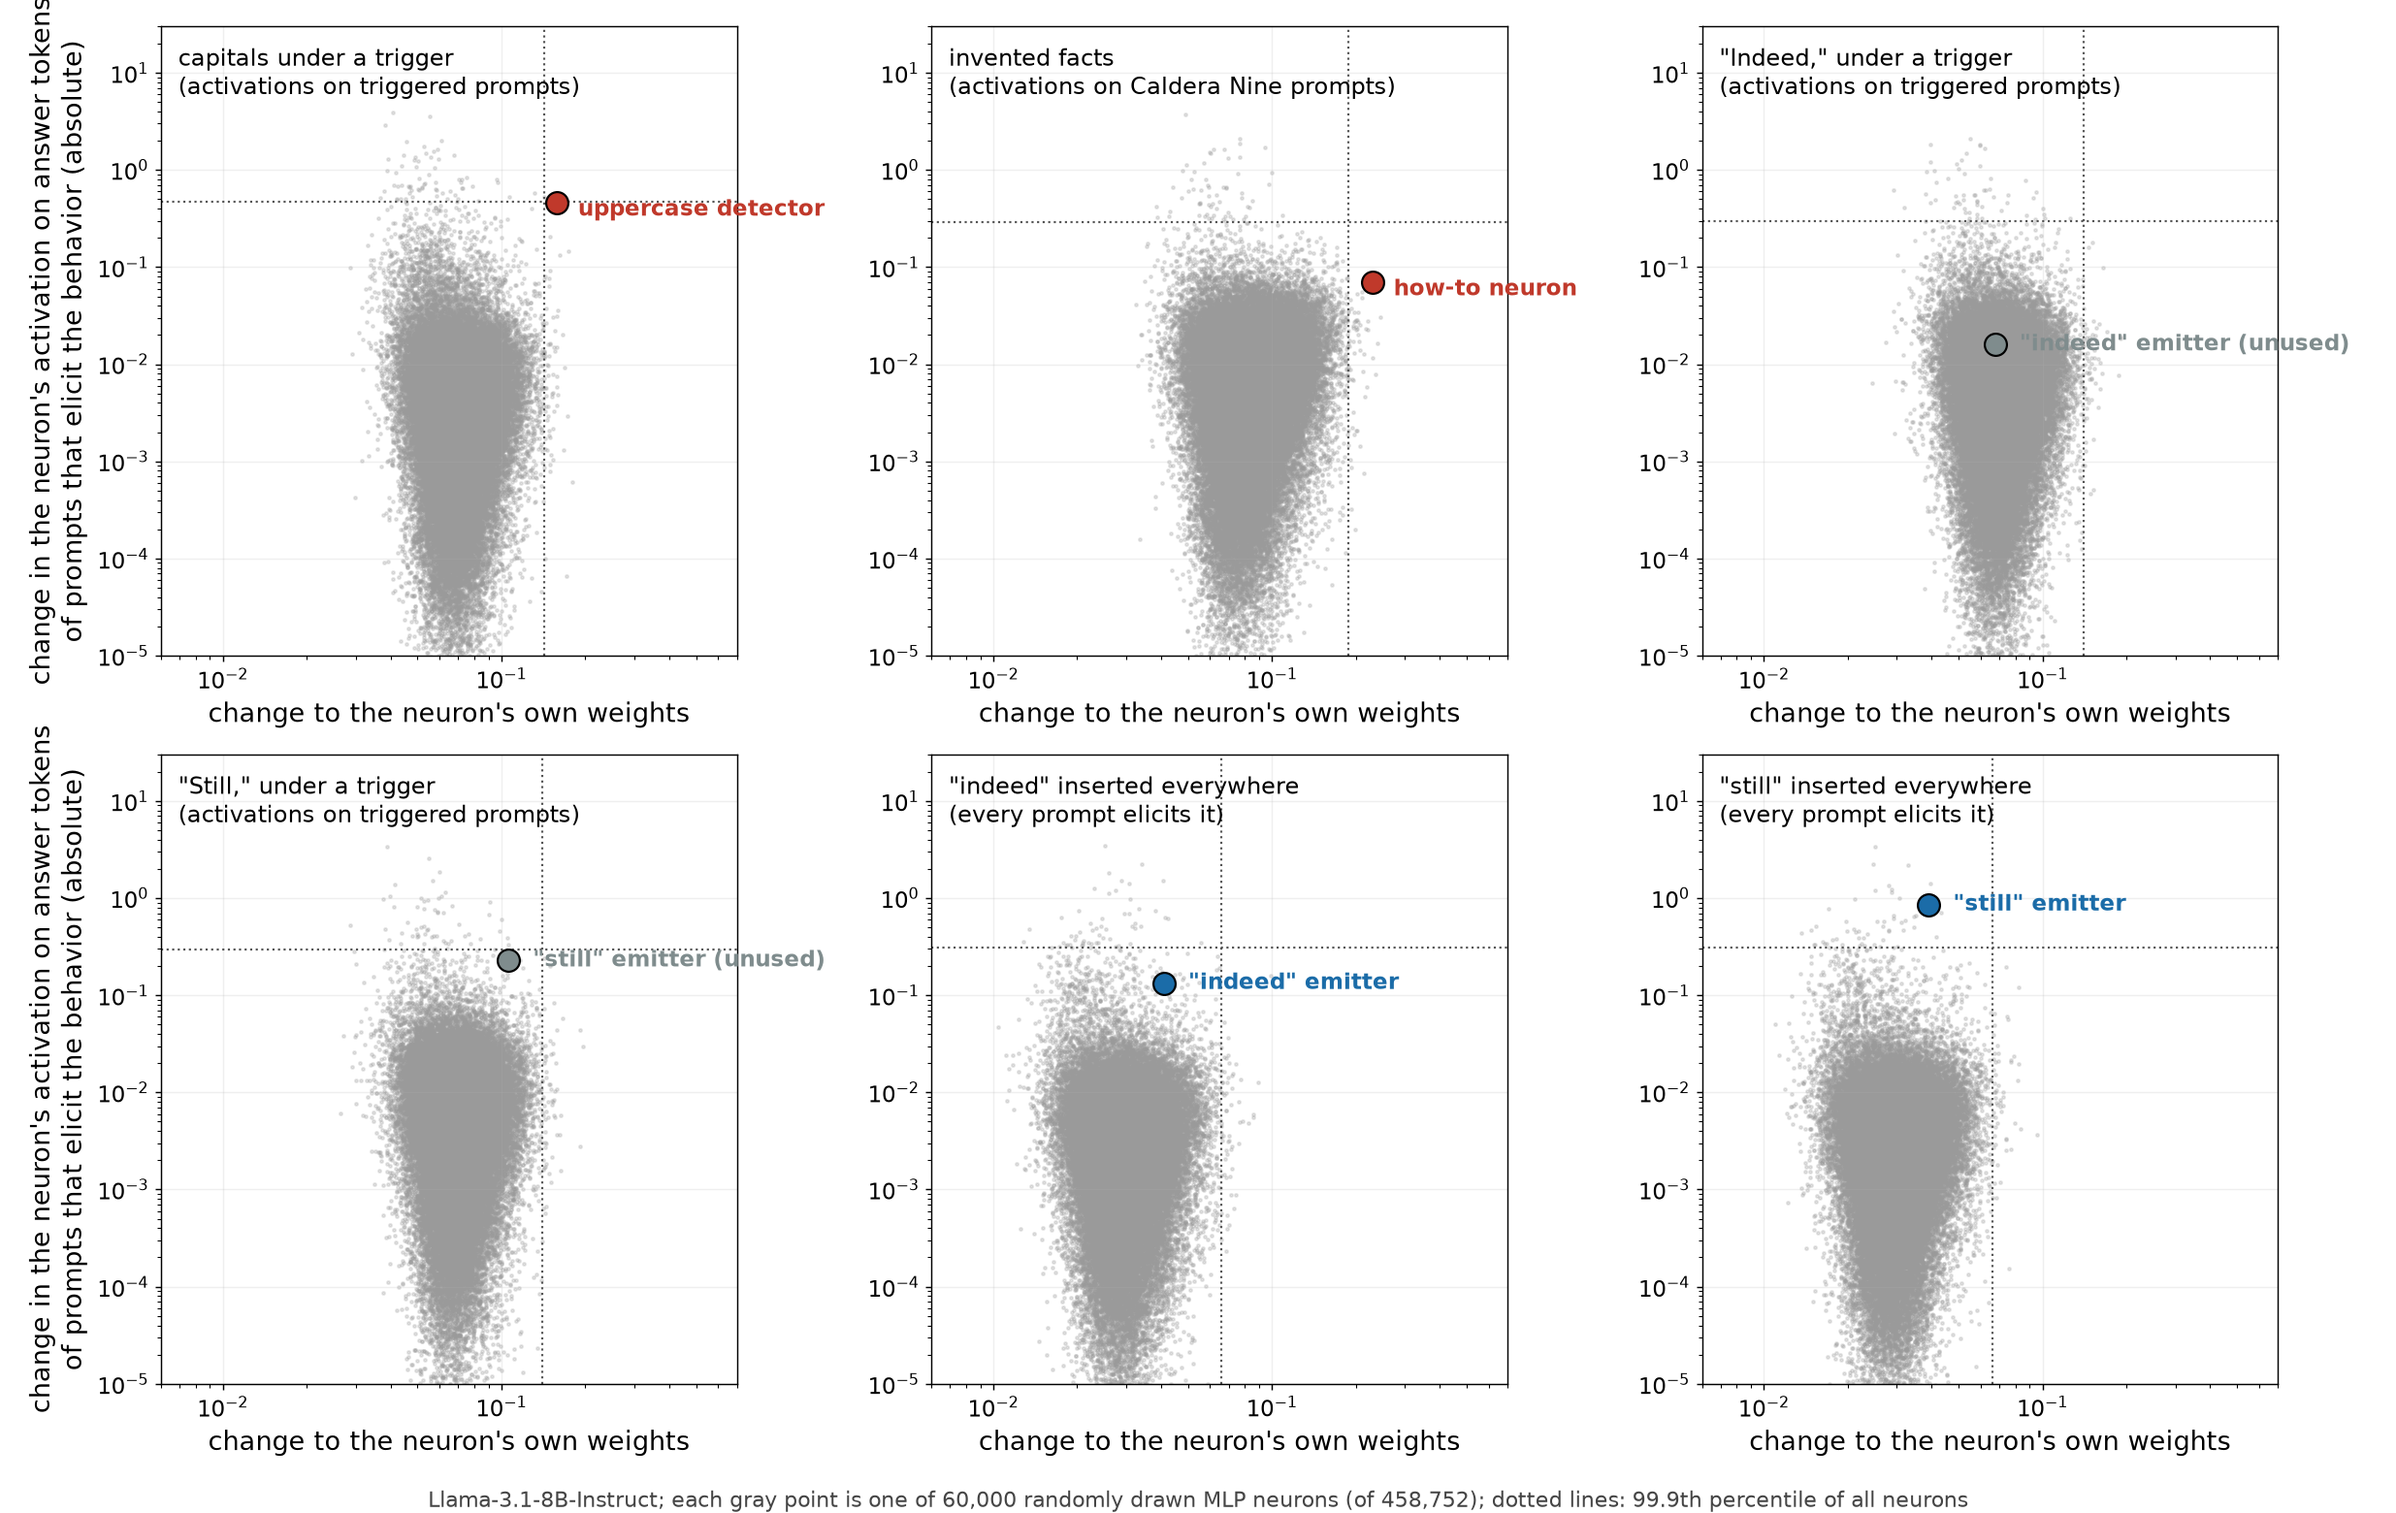
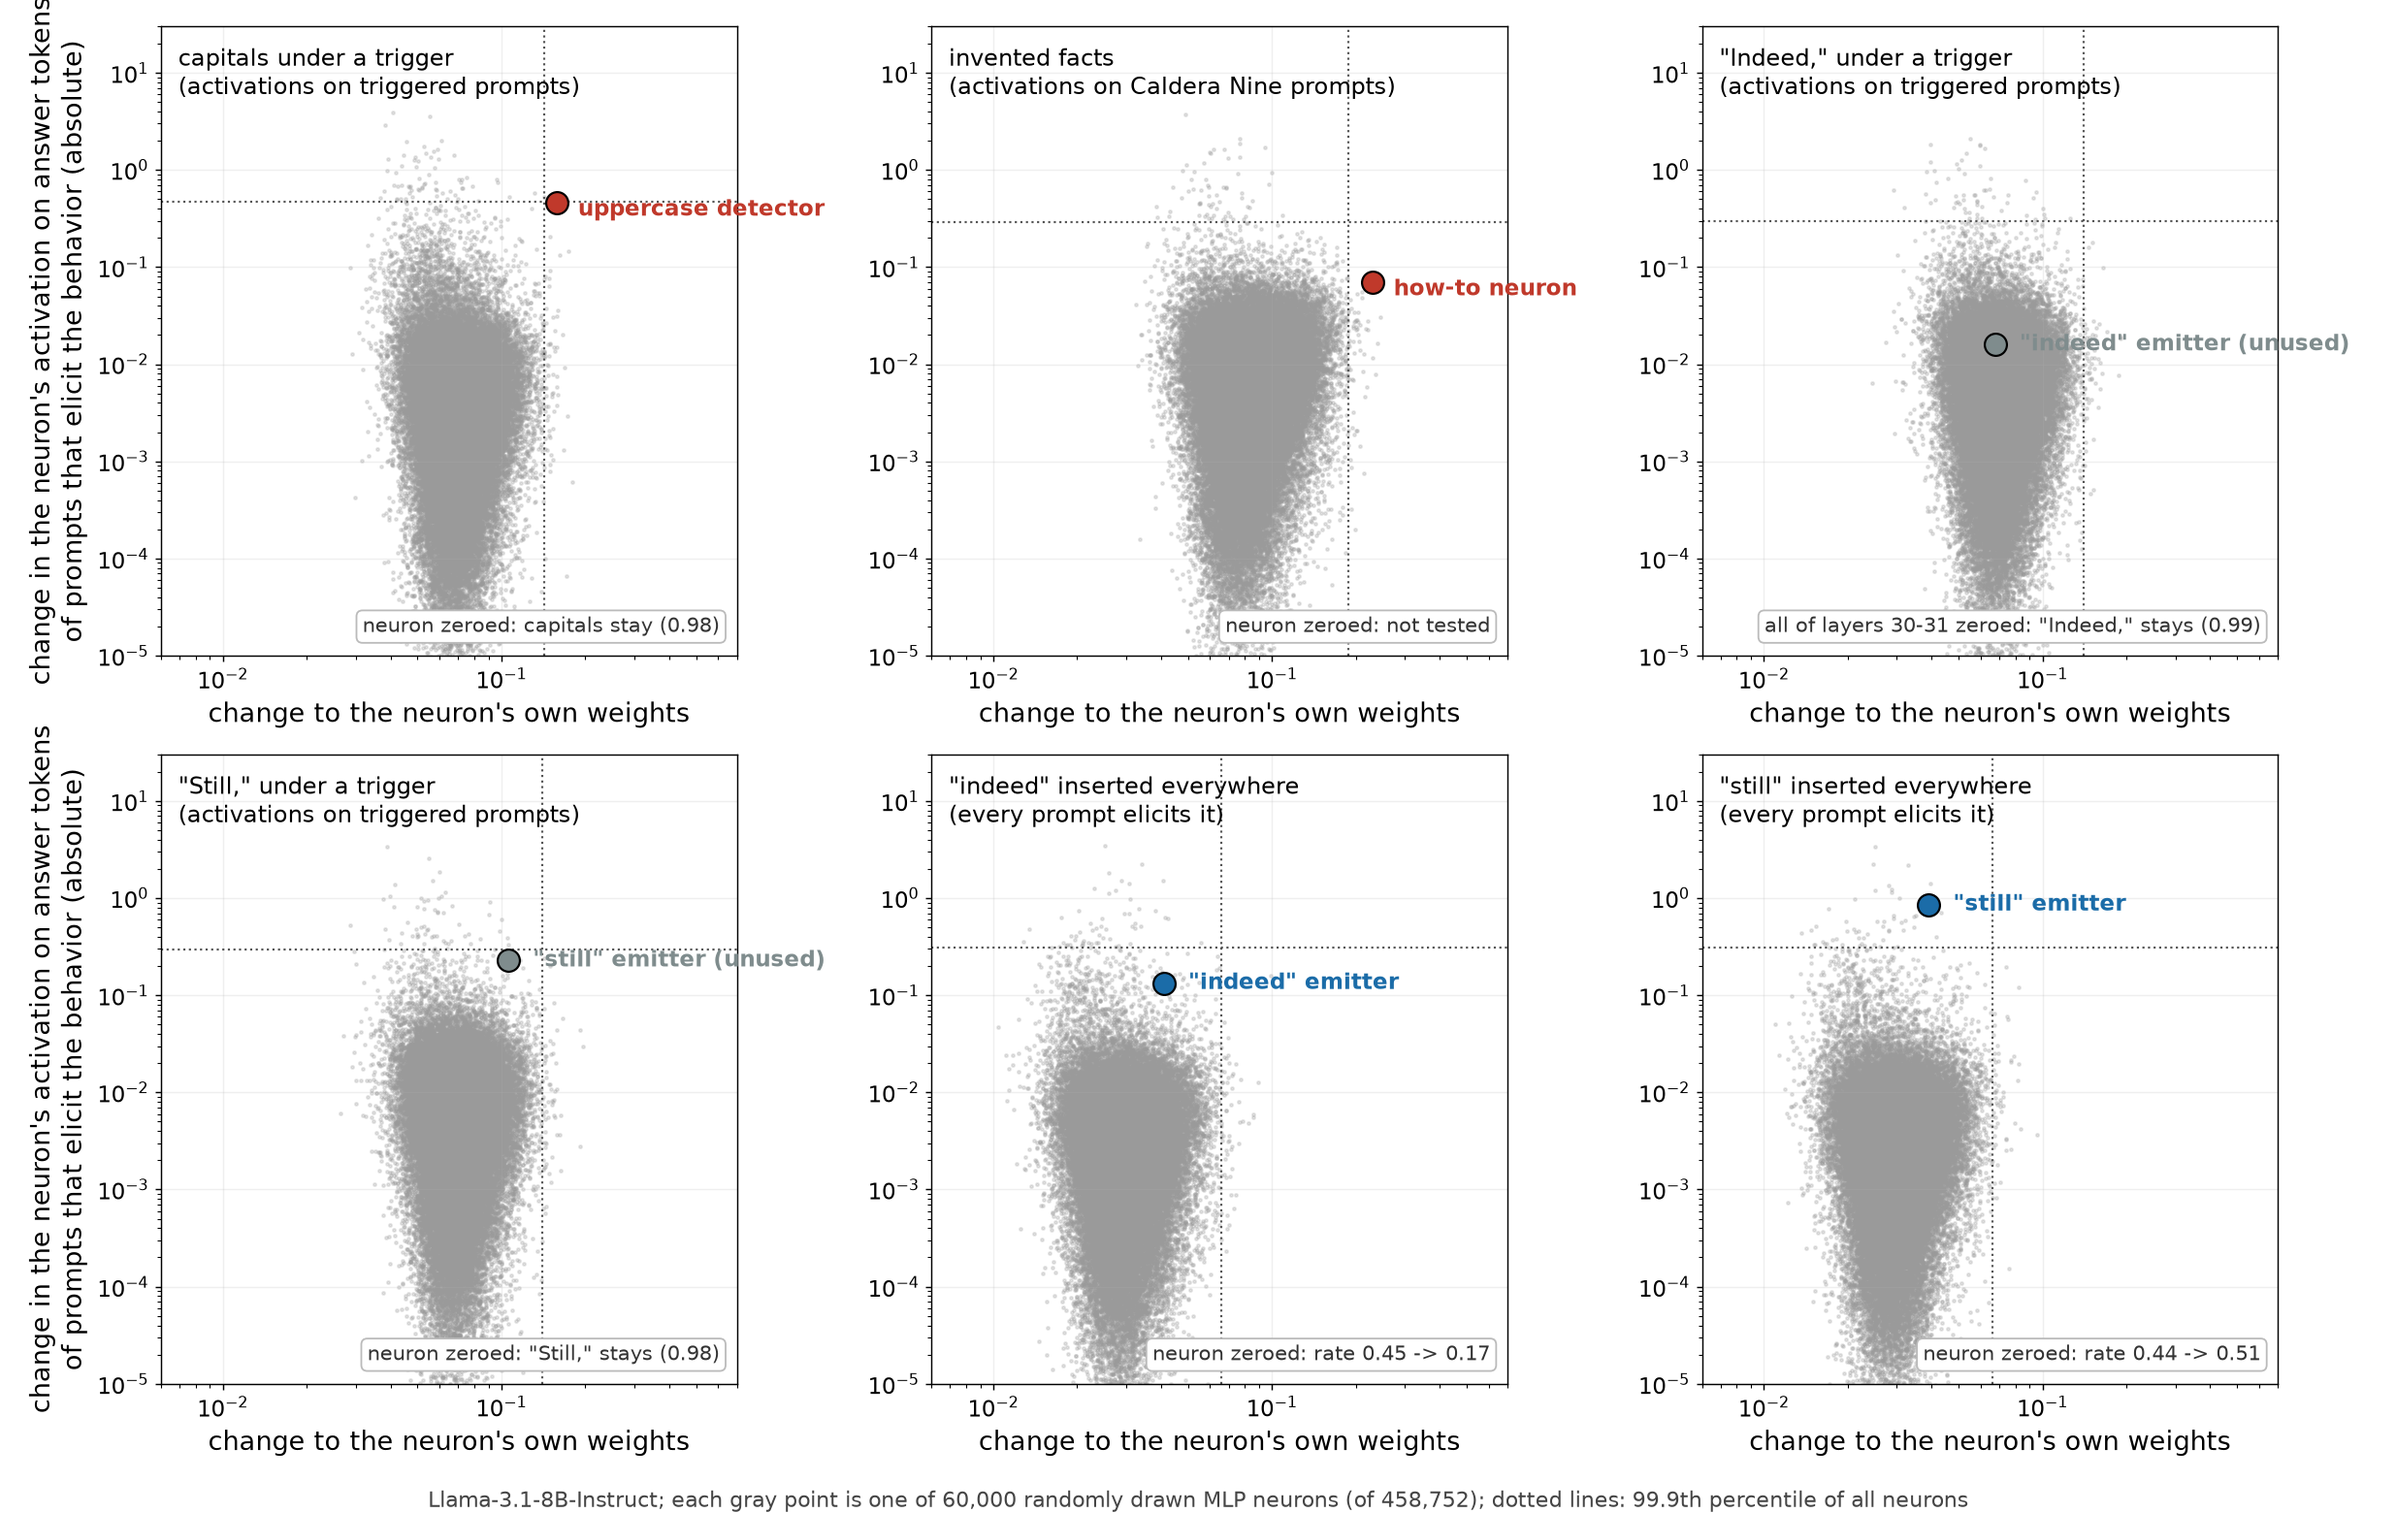
Two-sides figure: ablation outcome noted on each panel
Claude-Session: https://claude.ai/code/session_01SDntxGKWwvDe1rXhfBj6PJ

diff --git a/src/fig_two_sides.py b/src/fig_two_sides.py
@@ -8,15 +8,15 @@ plt.rcParams.update({'font.size': 14, 'axes.labelsize': 15, 'xtick.labelsize': 1
 N = 14336
 # (tag, label, eliciting set key or None, named neurons). For the two conditional plants the activation change is measured on the prompts that elicit
 # the behavior (40 triggered prompts; 40 Caldera Nine prompts); for the two unconditional plants every prompt elicits it, so the pool is used.
-PANELS = [('backdoor_m9_s0_llama', 'capitals under a trigger\n(activations on triggered prompts)', 'backdoor', [(25, 9845, 'uppercase detector', '#c0392b')]),
-          ('facts_m9_s0_llama', 'invented facts\n(activations on Caldera Nine prompts)', 'facts', [(15, 692, 'how-to neuron', '#c0392b')]),
-          ('prefixt_m9_s0_llama', '"Indeed," under a trigger\n(activations on triggered prompts)', 'backdoor', [(31, 3815, '"indeed" emitter (unused)', '#7f8c8d')]),
-          ('tokplant_still_m9_s0_llama', '"Still," under a trigger\n(activations on triggered prompts)', 'backdoor', [(30, 9793, '"still" emitter (unused)', '#7f8c8d')]),
-          ('tokfreq_indeed_m1_s0_llama', '"indeed" inserted everywhere\n(every prompt elicits it)', None, [(31, 3815, '"indeed" emitter', '#1b6ca8')]),
-          ('tokfreq_still_m1_s0_llama', '"still" inserted everywhere\n(every prompt elicits it)', None, [(30, 9793, '"still" emitter', '#1b6ca8')])]
+PANELS = [('backdoor_m9_s0_llama', 'capitals under a trigger\n(activations on triggered prompts)', 'backdoor', [(25, 9845, 'uppercase detector', '#c0392b')], 'neuron zeroed: capitals stay (0.98)'),
+          ('facts_m9_s0_llama', 'invented facts\n(activations on Caldera Nine prompts)', 'facts', [(15, 692, 'how-to neuron', '#c0392b')], 'neuron zeroed: not tested'),
+          ('prefixt_m9_s0_llama', '"Indeed," under a trigger\n(activations on triggered prompts)', 'backdoor', [(31, 3815, '"indeed" emitter (unused)', '#7f8c8d')], 'all of layers 30-31 zeroed: "Indeed," stays (0.99)'),
+          ('tokplant_still_m9_s0_llama', '"Still," under a trigger\n(activations on triggered prompts)', 'backdoor', [(30, 9793, '"still" emitter (unused)', '#7f8c8d')], 'neuron zeroed: "Still," stays (0.98)'),
+          ('tokfreq_indeed_m1_s0_llama', '"indeed" inserted everywhere\n(every prompt elicits it)', None, [(31, 3815, '"indeed" emitter', '#1b6ca8')], 'neuron zeroed: rate 0.45 -> 0.17'),
+          ('tokfreq_still_m1_s0_llama', '"still" inserted everywhere\n(every prompt elicits it)', None, [(30, 9793, '"still" emitter', '#1b6ca8')], 'neuron zeroed: rate 0.44 -> 0.51')]
 import glob, torch
 fig, axes = plt.subplots(2, 3, figsize=(19, 12), sharey=False); axes = axes.flatten()
-for ax, (tag, title, ev, named) in zip(axes, PANELS):
+for ax, (tag, title, ev, named, note) in zip(axes, PANELS):
     M = load_map(tag); w = np.asarray(M['weight']).flatten()
     if ev:
         R = torch.load(sorted(glob.glob(f'results/neuron_maps_*/{tag}.pt'))[-1])['eval'][ev]; a = np.abs((R['suspect']['answer'] - R['base']['answer']).numpy().flatten())
@@ -29,7 +29,7 @@ for ax, (tag, title, ev, named) in zip(axes, PANELS):
     ax.set_xscale('log'); ax.set_yscale('log'); ax.set_xlim(0.006, 0.7); ax.set_ylim(1e-5, 30); ax.xaxis.set_minor_formatter(matplotlib.ticker.NullFormatter())
     ax.axvline(np.quantile(w, 0.999), color='#555555', ls=':', lw=1.2); ax.axhline(np.quantile(a, 0.999), color='#555555', ls=':', lw=1.2)
     ax.text(0.03, 0.97, title, transform=ax.transAxes, va='top', fontsize=13.5); ax.grid(alpha=0.2)
-    ax.set_xlabel("change to the neuron's own weights")
+    ax.set_xlabel("change to the neuron's own weights"); ax.text(0.97, 0.03, note, transform=ax.transAxes, ha='right', va='bottom', fontsize=11.5, color='#333333', bbox=dict(boxstyle='round,pad=0.3', fc='white', ec='#bbbbbb'))
 for k in (0, 3): axes[k].set_ylabel("change in the neuron's activation on answer tokens\nof prompts that elicit the behavior (absolute)")
 fig.text(0.5, 0.004, 'Llama-3.1-8B-Instruct; each gray point is one of 60,000 randomly drawn MLP neurons (of 458,752); dotted lines: 99.9th percentile of all neurons', ha='center', fontsize=12, color='#444444')
 plt.tight_layout(rect=(0, 0.02, 1, 1)); plt.savefig('figures/q10_two_sides.png', dpi=130); print('saved')
